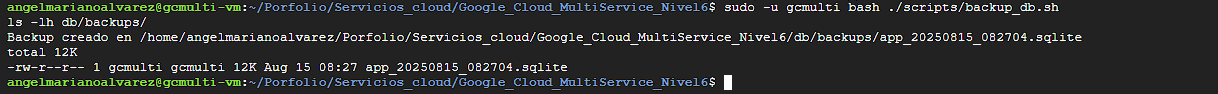
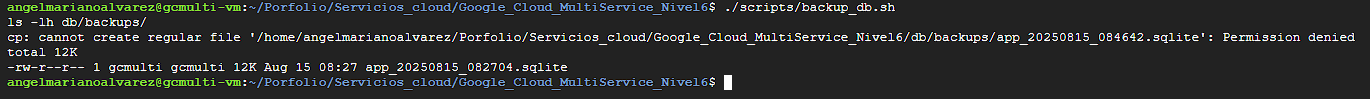
comm

diff --git a/Servicios_cloud/Google_Cloud_MultiService_Nivel6/README.md b/Servicios_cloud/Google_Cloud_MultiService_Nivel6/README.md
@@ -1,83 +1,155 @@
-# Google Cloud Multi‑Service – Nivel 6 Edition
+# Google Cloud Multi-Service – Nivel 6 Edition
 
-Proyecto unificado en GCP que integra **API Flask**, **BD SQLite (cero coste)** y **observabilidad básica** mediante registros y métricas de sistema. Pensado para ejecutarse en una **VM e2‑micro** dentro de *Google Cloud Free Tier* (o Cloud Shell) con **costo 0 €**.
+Este proyecto corresponde a un reto unificado del **Nivel 6** del curso de Servicios Cloud.  
+Se ha desplegado una API en Flask con base de datos SQLite sobre una **VM e2-micro** de Google Cloud Platform (GCP) dentro del free tier,  
+con configuración de firewall, servicio `systemd`, backup y pruebas de funcionamiento documentadas paso a paso.
 
-## 👀 Objetivo
-Simular una **tienda online** mínima: inventario expuesto por API, operaciones de lectura/escritura, copias de seguridad y monitorización básica.
-
-## 🔧 Arquitectura (mínima y gratuita)
-- **GCE** (Ubuntu/Debian) e2‑micro
-- **API Flask** sirviendo con **gunicorn**
-- **SQLite** local (`db/app.sqlite`) → 0 €
-- **Logging**: sistema (journald) y logs de app
-- **Backups**: `scripts/backup_db.sh` (rotación simple)
-
-> Alternativas opcionales sin coste recurrente: **MongoDB Atlas Free** (externo a GCP).
-
-## 📁 Estructura
-```
-Google_Cloud_MultiService
-├─ README.md
-├─ src/
-│  ├─ api.py
-│  └─ requirements.txt
-├─ db/
-│  └─ schema.sql
-├─ scripts/
-│  ├─ deploy.sh
-│  ├─ startup.sh
-│  └─ backup_db.sh
-└─ docs/
-   └─ capturas/  (coloca aquí las PNG)
-```
-
-## 🚀 Despliegue rápido (Cloud Shell o VM)
-```bash
-# 1) Clonar este repo (o subir carpeta) y entrar
-# git clone <tu_repo> Google_Cloud_MultiService && cd Google_Cloud_MultiService
-
-# 2) Preparar entorno
-chmod +x scripts/*.sh
-./scripts/deploy.sh
-
-# 3) Arrancar servicio
-sudo systemctl enable gcmulti.service
-sudo systemctl start gcmulti.service
-
-# 4) Ver estado y logs
-sudo systemctl status gcmulti.service
-journalctl -u gcmulti.service -f
-```
-
-## 🔐 Firewall / Red (VM Google Cloud)
-- Abre el puerto **8000** TCP en la regla de firewall de la VM.
-- Accede a `http://IP_PUBLICA:8000/health` para probar.
-
-## 🧪 Endpoints
-- `GET /health` → estado
-- `GET /items` → listar inventario
-- `POST /items` → crear (JSON: `name`, `price`, `stock`)
-- `PUT /items/<id>` → actualizar
-- `DELETE /items/<id>` → borrar
-
-## 💾 Backups
-Ejecuta manualmente o programa con `cron`:
-```bash
-./scripts/backup_db.sh
-```
-
-## 🖼 Capturas sugeridas (en `docs/capturas/`)
-1. VM e2‑micro creada (detalles de máquina)
-2. Regla de firewall puerto 8000
-3. `systemctl status gcmulti.service`
-4. Prueba del endpoint `/health` en el navegador
-5. Log en tiempo real con `journalctl -u gcmulti.service -f`
-
-## 🧭 Siguientes pasos (extensiones del Nivel 6)
-- HTTPS con **Let's Encrypt** (si dispones de dominio)
-- **Dashboards** en Cloud Monitoring (CPU, red) dentro del free tier
-- **CI/CD** con Cloud Build (gatillado manual) – opcional
+## 📋 Objetivos
+- Desplegar una API en Flask accesible externamente en GCP.
+- Configurar una base de datos SQLite inicializada con el esquema definido.
+- Implementar seguridad básica mediante regla de firewall con etiqueta de red.
+- Gestionar el servicio con `systemd` para ejecución en segundo plano.
+- Incorporar scripts para inicializar la BD (`init_db.sh`) y generar backups (`backup_db.sh`).
+- Documentar todo el proceso con capturas para el porfolio.
 
 ---
 
-© 2025-08-14 Ángel Mariano Álvarez López – Proyecto educativo/portfolio.
+## 1⃣ Selección de proyecto en GCP
+Se selecciona el proyecto en la consola de Google Cloud y se habilita Compute Engine.
+
+![01_proyecto_dashboard](docs/capturas/01_proyecto_dashboard.png)
+
+---
+
+## 2⃣ Creación de la VM e2-micro
+Se crea una instancia `gcmulti-vm` con:
+- Serie: **E2**
+- Tipo: **e2-micro** (free tier)
+- SO: **Debian 12 (bookworm)**
+- Disco: 10 GB estándar
+- Etiqueta de red: `gcmulti-app`
+
+![02_vm_form](docs/capturas/02_vm_form.png)
+
+---
+
+## 3⃣ Detalle de la VM
+Vista de la instancia creada, con IP externa y etiqueta de red configurada.
+
+![03_vm_detalle](docs/capturas/03_vm_detalle.png)
+
+---
+
+## 4⃣ Regla de firewall
+Se crea la regla `allow-gcmulti-8000` para permitir tráfico TCP entrante al puerto **8000** desde `0.0.0.0/0` solo para instancias con la etiqueta `gcmulti-app`.
+
+![04_firewall_regla](docs/capturas/04_firewall_regla.png)
+
+---
+
+## 5⃣ Conexión SSH
+Se accede a la VM mediante la conexión SSH desde el navegador.
+
+![05_ssh_terminal](docs/capturas/05_ssh_terminal.png)
+
+---
+
+## 6⃣ Despliegue y estado del servicio
+Se clona el repositorio, se otorgan permisos de ejecución a los scripts y se ejecuta `deploy.sh`.  
+Se habilita y arranca el servicio `gcmulti.service`, confirmando que está **active (running)**.
+
+![06_status_systemd](docs/capturas/06_status_systemd.png)
+
+---
+
+## 7⃣ Prueba de la API – Endpoint `/health`
+Se accede desde el navegador a la IP pública y puerto 8000, confirmando respuesta JSON `{"status":"ok"}`.
+
+![07_health_browser](docs/capturas/07_health_browser.png)
+
+---
+
+## 8⃣ Logs en vivo
+Se visualizan los logs del servicio con `journalctl -u gcmulti.service -f` mientras se realizan peticiones al endpoint `/items`.
+
+![08_logs_journalctl](docs/capturas/08_logs_journalctl.png)
+
+---
+
+## 9⃣ Backup de la base de datos
+Ejecución del script `backup_db.sh` que se auto-relanza como usuario `gcmulti` para generar una copia de la base de datos en `db/backups/`.
+
+![09_backup](docs/capturas/09_backup.png)
+
+---
+
+## 📂 Estructura del proyecto
+```
+Google_Cloud_MultiService_Nivel6/
+│
+├── docs/capturas/                # Evidencias gráficas
+├── db/
+│   ├── schema.sql                # Esquema inicial de la BD
+│   ├── app.sqlite                 # Base de datos (generada en la VM)
+│   └── backups/                   # Copias de seguridad
+├── scripts/
+│   ├── deploy.sh                  # Despliegue inicial y configuración systemd
+│   ├── init_db.sh                 # Inicialización de la BD como usuario de servicio
+│   └── backup_db.sh               # Copia de seguridad de la BD
+└── src/
+    ├── api.py                     # API Flask
+    └── requirements.txt           # Dependencias Python
+```
+
+---
+
+## 🛠 Tecnologías usadas
+- **Google Compute Engine** – Máquina virtual e2-micro (free tier)
+- **Flask** – Framework para la API
+- **SQLite** – Base de datos embebida
+- **systemd** – Gestión del servicio
+- **Google VPC Firewall** – Control de acceso a la instancia
+
+---
+
+## 🐞 Solución de problemas
+### Acceso externo bloqueado
+- Revisar la regla de firewall:  
+  - **Rangos de IPv4 de origen** debe ser `0.0.0.0/0`  
+  - **Etiqueta de destino** debe coincidir con la de la VM (`gcmulti-app`)
+
+### Error `attempt to write a readonly database`
+- Verificar permisos de la carpeta `db/` y su contenido:
+  ```bash
+  sudo chown -R gcmulti:gcmulti db
+  ```
+- Inicializar la BD con `scripts/init_db.sh`
+
+### Error en backups por permisos
+- Asegurarse de usar el `backup_db.sh` mejorado que se auto-relanza como `gcmulti`.
+
+---
+
+## 🧹 Limpieza de recursos
+Para evitar costes, al finalizar:
+1. Parar el servicio:
+   ```bash
+   sudo systemctl stop gcmulti.service
+   sudo systemctl disable gcmulti.service
+   ```
+2. Eliminar la VM `gcmulti-vm` desde la consola de GCP.
+3. Borrar la regla de firewall `allow-gcmulti-8000`.
+
+---
+
+## Estado del Proyecto
+- [x] Proyecto Finalizado
+- [x] Validado el funcionamiento 
+- [x] Limpieza de recursos pendiente al cierre
+
+---
+
+## Autor
+Ángel Mariano Álvarez López  
+📧 angelmarianoalvarez@gmail.com  
+🔗 [GitHub Porfolio](https://github.com/Angel-Mariano-Alvarez/Porfolio)
